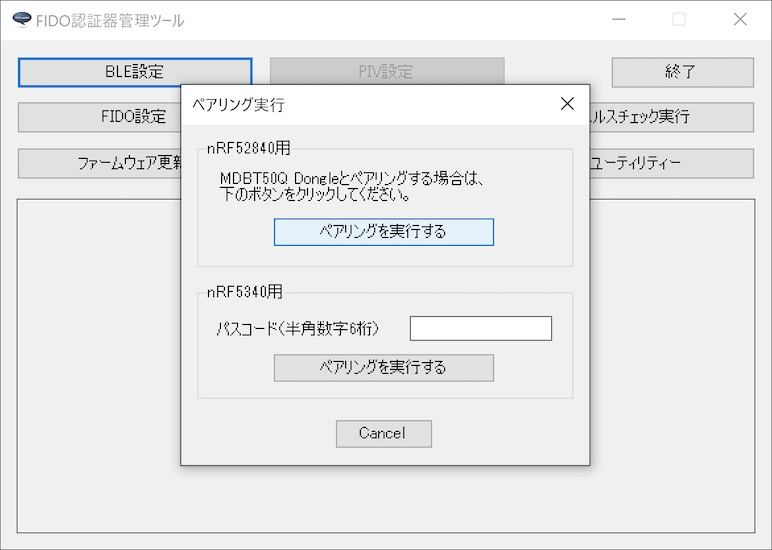
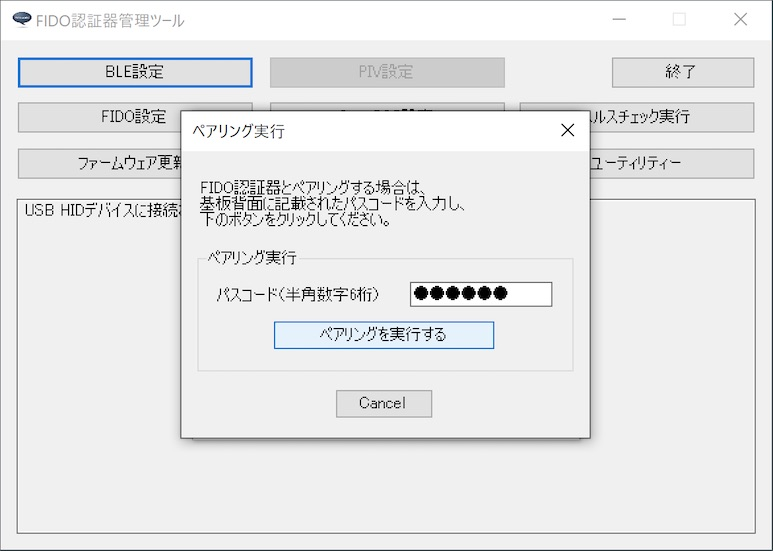
ドキュメントを更新
・ターゲットをMDBT50Q Dongle --> BT40 Dongleに変更
（今後、MDBT50Q Dongleが製造できなくなるための措置）
・ターゲット変更に伴う画面修正内容を反映

diff --git a/MaintenanceTool/WindowsExe/UPDATEFW_BLE.md b/MaintenanceTool/WindowsExe/UPDATEFW_BLE.md
@@ -2,14 +2,14 @@
 
 ## 概要
 
-[FIDO認証器管理ツール](README.md)を使用し、[MDBT50Q Dongle](../../FIDO2Device/MDBT50Q_Dongle/README.md)のファームウェアを更新する手順を掲載します。
+[FIDO認証器管理ツール](README.md)を使用し、[BT40 Dongle](../../FIDO2Device/BT40Dongle/README.md)のファームウェアを更新する手順を掲載します。
 
 #### ご注意
 
 バージョン`0.4.0`以降のファームウェアは、全てBLE経由でのファームウェア更新となります。[注1]
 
-MDBT50Q Dongleをご使用の場合は、背面にあるボタン電池ケースに電池をセットし、BLEペリフェラル・モードで起動されていることをご確認ください。<br>
-（MDBT50Q Dongleの青色LEDが点滅していることを確認します）
+BT40 Dongleをご使用の場合は、背面にあるボタン電池ケースに電池をセットし、BLEペリフェラル・モードで起動されていることをご確認ください。<br>
+（BT40 Dongleの青色LEDが点滅していることを確認します）
 
 <img src="../../FIDO2Device/MDBT50Q_Dongle/pcb_rev2_1_2/assets/0004.jpg" width="400">
 
@@ -21,18 +21,13 @@ MDBT50Q Dongleをご使用の場合は、背面にあるボタン電池ケース
 
 <img src="assets02/0004.jpg" width="400">
 
-ファームウェア更新画面が表示されます。<br>
-画面下部のボックス「nRF5340用」の中にあるボタン「ファームウェアを更新（BLE）」をクリックします。
-
-<img src="assets06/0013.jpg" width="400">
-
 確認ダイアログが表示されます。<br>
 処理を続行したい場合は「はい」をクリックします。
 
 <img src="assets06/0014.jpg" width="400">
 
 処理開始画面が表示されます。<br>
-MDBT50Q Dongleに導入されているファームウェアのバージョンと、更新するバージョンが表示されます。
+BT40 Dongleに導入されているファームウェアのバージョンと、更新するバージョンが表示されます。
 
 <img src="assets06/0015.jpg" width="400">
 
@@ -41,7 +36,7 @@ MDBT50Q Dongleに導入されているファームウェアのバージョンと
 
 <img src="assets06/0016.jpg" width="400">
 
-次に、MDBT50Q Dongle内で、転送されたファームウェア更新イメージが反映中であることを知らせています。
+次に、BT40 Dongle内で、転送されたファームウェア更新イメージが反映中であることを知らせています。
 
 <img src="assets06/0017.jpg" width="400">
 

diff --git a/MaintenanceTool/WindowsExe/BLEPAIRING.md b/MaintenanceTool/WindowsExe/BLEPAIRING.md
@@ -6,10 +6,10 @@
 
 #### 使用機材
 
-本手順書では、FIDO認証器として、[MDBT50Q Dongle](../../FIDO2Device/MDBT50Q_Dongle/README.md)を使用するものといたします。
+本手順書では、FIDO認証器として、[BT40 Dongle](../../FIDO2Device/BT40Dongle/README.md)を使用するものといたします。
 
 まずは、背面にあるボタン電池ケースに電池をセットし、BLEペリフェラル・モードで起動されていることをご確認ください。<br>
-（MDBT50Q Dongleの青色LEDが点滅していることを確認します）
+（BT40 Dongleの青色LEDが点滅していることを確認します）
 
 <img src="../../FIDO2Device/MDBT50Q_Dongle/pcb_rev2_1_2/assets/0004.jpg" width="400">
 
@@ -36,7 +36,7 @@ PCのBluetooth設定画面を開き、ペアリング設定を削除します。
 #### ペアリングモードに遷移
 
 ペアリング相手のFIDO認証器を、ペアリングモードに遷移させます。<br>
-MDBT50Q Dongleの場合は、基板上のボタンを３秒以上長押してから離すと、下図のように基板上の橙色LEDが点灯します。
+基板上のボタンを３秒以上長押してから離すと、下図のように基板上の橙色LEDが点灯します。
 
 <img src="../../FIDO2Device/MDBT50Q_Dongle/pcb_rev2_1_2/assets/0005.jpg" width="400">
 
@@ -50,10 +50,7 @@ MDBT50Q Dongleの場合は、基板上のボタンを３秒以上長押してか
 
 ペアリング実行画面がポップアップ表示されます。
 
-[MDBT50Q Dongle](../../FIDO2Device/MDBT50Q_Dongle/README.md)（nRF52840基板）の場合、パスコード入力は不要です。<br>
-画面上部のグループ内にある「ペアリングを実行する」ボタンをクリックします。
-
-nRF5340基板の場合は、パスコード入力が必要です。<br>
+BT40 Dongleとペアリングを行うためには、パスコード入力が必要です。<br>
 画面下部のグループ内にある入力欄に、半角数字６桁のパスコードを入力し「ペアリングを実行する」ボタンをクリックします。
 
 <img src="assets06/0025.jpg" width="400">
